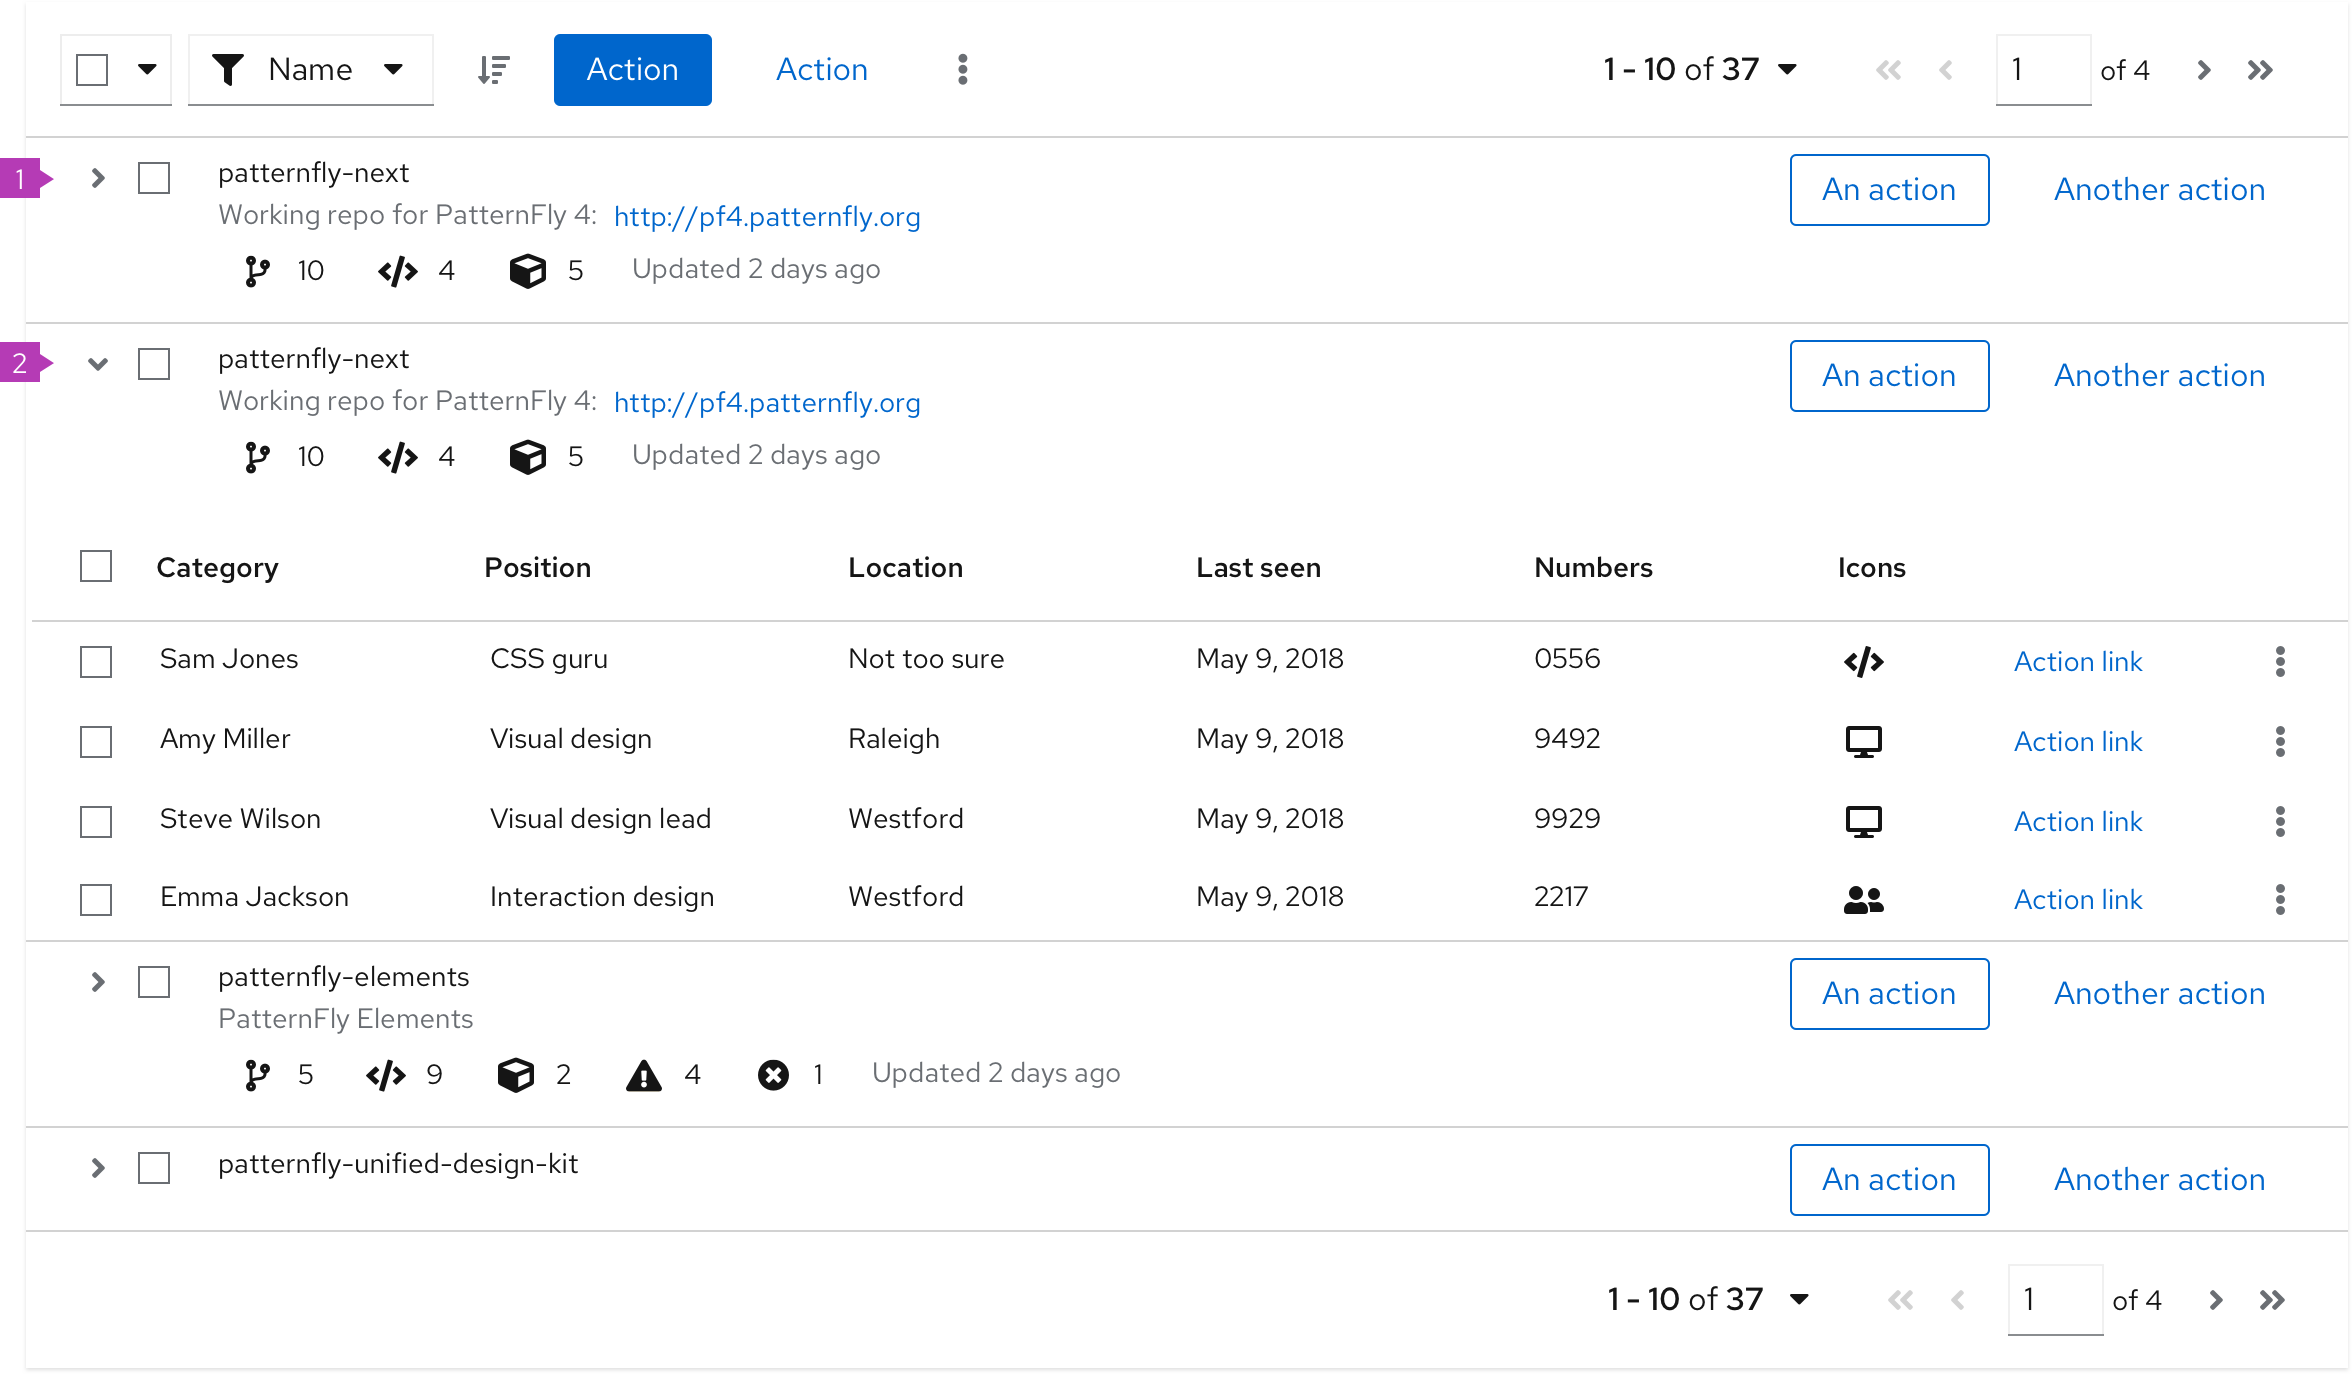
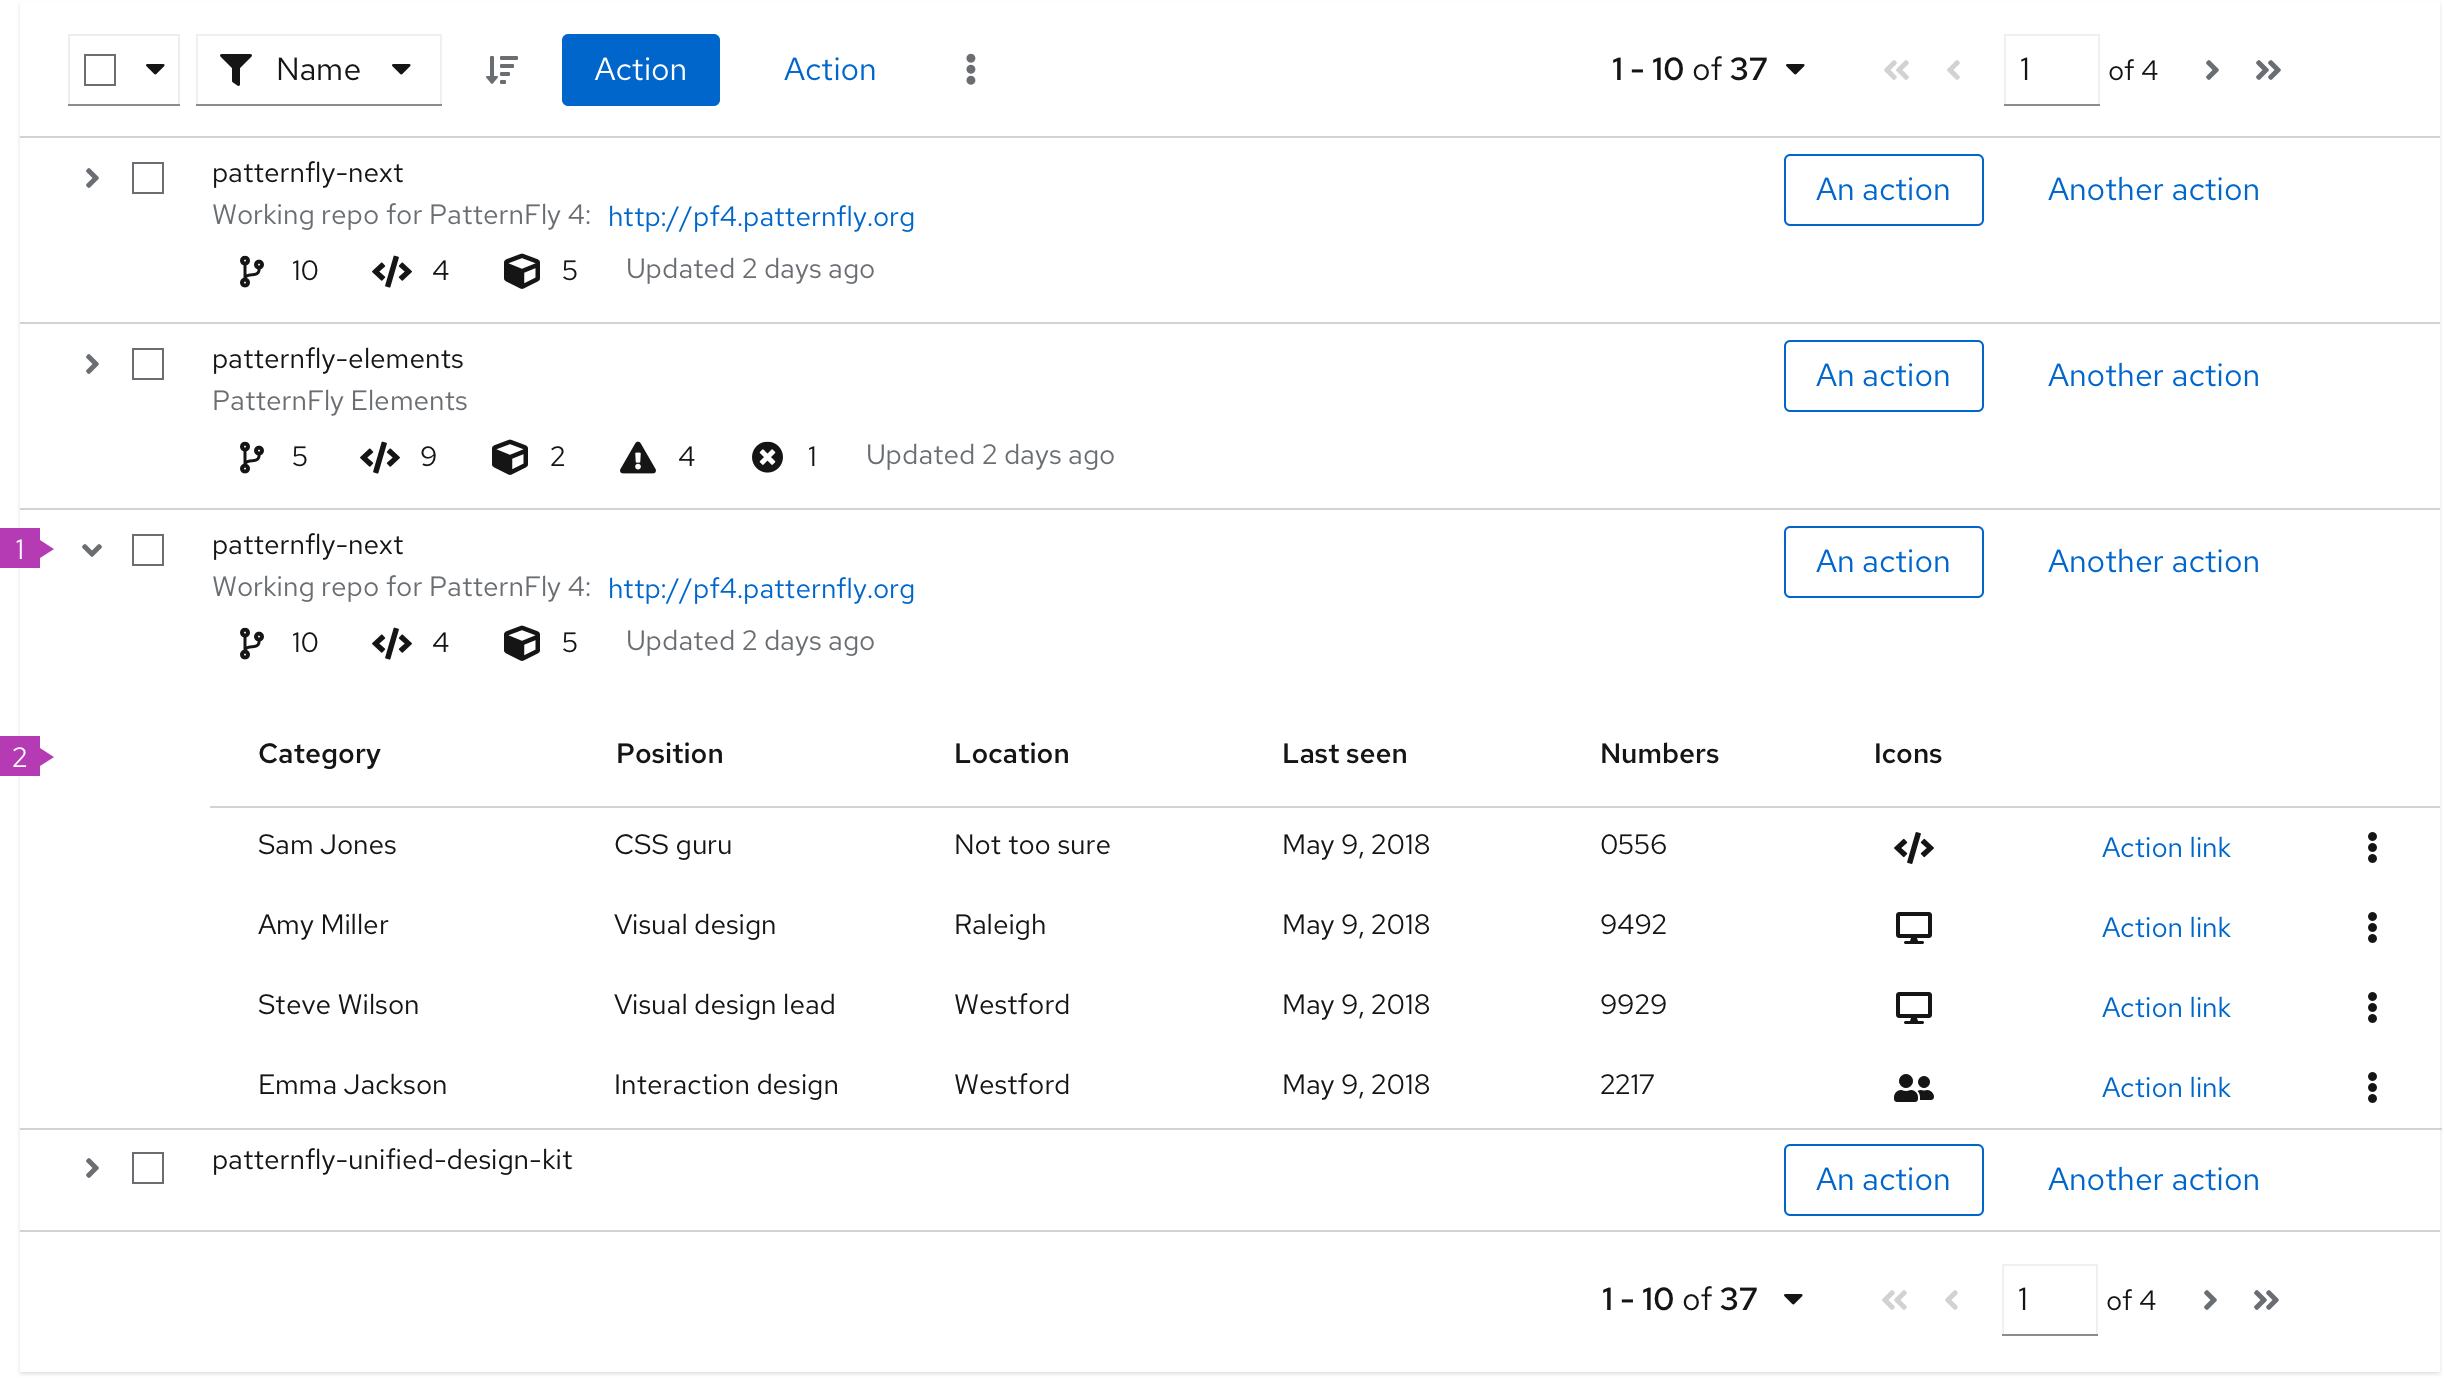
Fixing changes and updating previews

diff --git a/packages/v4/src/content/design-guidelines/usage-and-behavior/lists-and-tables/lists-and-tables.md b/packages/v4/src/content/design-guidelines/usage-and-behavior/lists-and-tables/lists-and-tables.md
@@ -17,7 +17,10 @@ Use [tables](#tables) when:
 * You want column headers.
 
 ## Data lists
-PatternFly supports several variations of the data list component.
+PatterFly supports two main types of data lists
+
+1. **[Compact data list](#compact-data-list)**
+2. **[Basic data list](#basic-data-list)**
 
 ### How to use
 Think of each row in a data list as a container for some formatted content. In PatternFly 4, data list rows can accept any [layout](/documentation/react/layouts/bullseye) supported by the design system as long as all rows apply the same layout. Here are some common layouts that may be useful in a data list:
@@ -27,7 +30,7 @@ Think of each row in a data list as a container for some formatted content. In P
 * **[Split](/documentation/react/layouts/split):** When you want to distribute content evenly with a main content area in the center.
 
 ### Data list capabilities
-Every [compact](#when-to-use-compact-vs-basic-spacing) or [basic](#when-to-use-compact-vs-basic-spacing) data list can be extended with these functionalities.
+Every [compact or basic data list](#when-to-use-compact-vs-basic-spacing) can be extended with these functionalities.
 
 * **[Actionable data list](#actionable-data-list)**
 * **[Expandable data list](#expandable-data-list)**
@@ -77,11 +80,16 @@ Use an expandable data list when you have more information than will comfortably
 
 ## Tables
 
+PatterFly supports two main types of data 
+
+1. **[Compact data list](#compact-data-list)**
+2. **[Basic data list](#basic-data-list)**
+
 ### How to use
 Consider the structure of the data you want to display and organize that information into columns. Columns will typically have column headers. Every row within a table must have a consistent format. If the table row includes actions, they should always be placed in the rightmost column(s).
 
 ### Table capabilities
-Every [compact](#when-to-use-compact-vs-basic-spacing) or [basic](#when-to-use-compact-vs-basic-spacing) table can be extended with these functionalities. 
+Every [compact or basic table ](#when-to-use-compact-vs-basic-spacing) can be extended with these functionalities. 
 
 * **[Expandable data table](#expandable-data-table)**
 * **[Compound expandable table](#compound-expandable-table)**
@@ -138,9 +146,9 @@ Sorting by columns is possible for any table variation. Enabling the component w
 
 <img src="./img/sortable-data-table.png"  alt="Sortable data table"  width="1161"/> 
 
-1. **Sorted column:** When a column is being sorted by, the column header will turn [blue](/design-guidelines/styles/colors#typography-and-iconography-colors) and the sort icon will represent the direction of the sort. Subsequent clicks on the sortable column header will toggle the direction of the sort.
-2. **Hovered sort:** When a column is sortable, the sort icon will appear to the right of the column header. Upon hover, the  icon will change to a [darker grey](/design-guidelines/styles/colors#typography-and-iconography-colors) indicating that the icon is actionable.
-3. **Sortable column:** When a column is sortable, the sort icon will appear to the right of the column header in a [light grey](/design-guidelines/styles/colors#typography-and-iconography-colors) color. Sorting will not become active until the user selects the column header. This triggers the arrow to point upwards and the content to be sorted in ascending order.
+1. **Sortable column:** When a column is sortable, the sort icon will appear to the right of the column header in a [light grey](/design-guidelines/styles/colors#typography-and-iconography-colors) color. Sorting will not become active until the user selects the column header. This triggers the arrow to point upwards and the content to be sorted in ascending order.
+3. **Hovered sort:** When a column is sortable, the sort icon will appear to the right of the column header. Upon hover, the  icon will change to a [darker grey](/design-guidelines/styles/colors#typography-and-iconography-colors) indicating that the icon is actionable.
+2. **Sorted column:** When a column is being sorted by, the column header will turn [blue](/design-guidelines/styles/colors#typography-and-iconography-colors) and the sort icon will represent the direction of the sort. Subsequent clicks on the sortable column header will toggle the direction of the sort.
 
 ### When to use
 The default sort order for a table should support the primary use case for the application. All columns in a table do not require sort functionality. That is, you can disable the header sort function on some columns and enable it on others.
@@ -152,13 +160,16 @@ If a table contains these two attributes: (System Name | Last Sync) you may want
 If a table contains these three attributes: (System Name | Last Sync | Severity) you may want to show the system with the highest Severity because that is the system the user should tend to first.
 
 ## When to use compact vs. basic spacing
+Whether to use a table/data list with compact or basic spacing is up to you and your use case. However, here is some guidance for when to use which option. You can see examples of each option for comparison. 
 
-<img src="./img/compact-vs-basic-spacing.png"  alt="Compact vs. basic spacing"  width="1237"/> 
+<img src="./img/compact-spacing.png"  alt="Compact spacing"  width="1190"/> 
 
 Use compact spacing when:
 * You need to show as much data as possible on one page.
 * You need to show data in a small space. For example in modal or wizard.
 * You need to minimize paging.
+
+<img src="./img/basic-spacing.png"  alt="Basic spacing"  width="1190"/> 
 
 Use basic spacing when:
 * You don’t have to display a lot of data on one page.
@@ -170,7 +181,7 @@ The PatternFly 4 table is designed to be fully responsive. When columns no longe
 <img src="./img/Mobile-data-table-example.png"  alt="Mobile data table"  width="375"/> 
 
 ## Using lists and tables in a page
-Lists or a tables should be placed in the body of a page. The width should be set by the containing element.
+Lists and tables should be placed in the body of a page. The width should be set by the containing element.
 
 <img src="./img/data-table-example.png"  alt="Compact data table example"  width="1501"/> 
 
